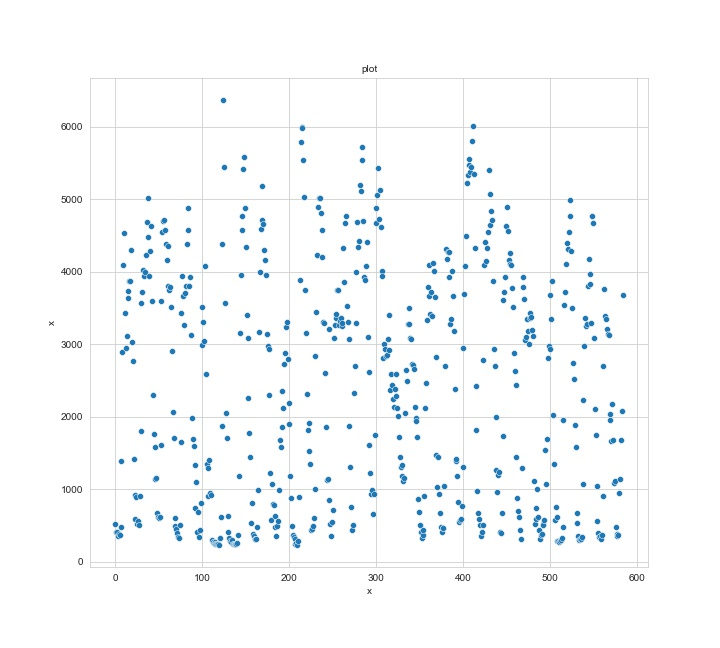
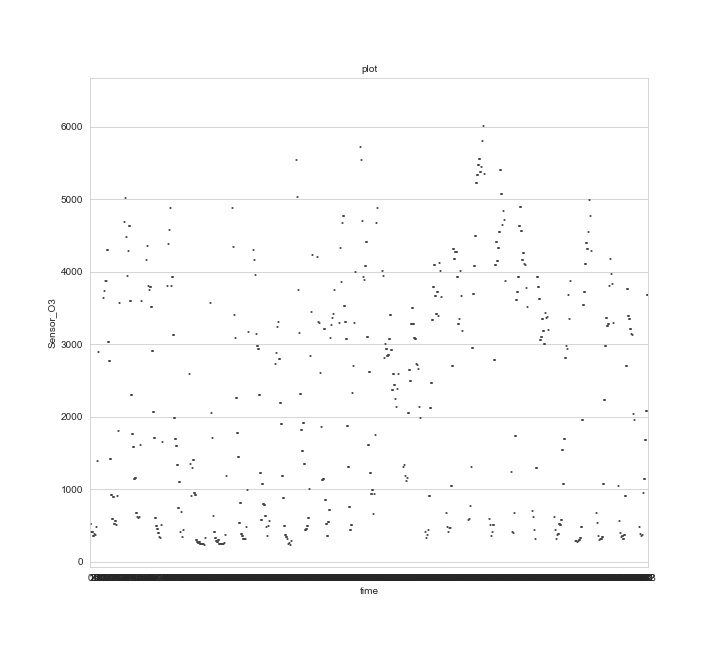
time added to the dataframe, trying some plots

diff --git a/Toml-part3/dplotter.py b/Toml-part3/dplotter.py
@@ -12,18 +12,16 @@ import shutil as sh
 import pandas as pd
 import seaborn as sb
 
-def plotTypes():
-    return [
-            "bar",
-            "count",
-            "scatter",
-            "pain",
-            "line",
-            "box",
-            "strip",
-            "violin",
-            "heat"
-        ]
+#useful plots:
+    #lineplot
+    #pairplot
+    #boxplot
+    #scatterplot
+    #barplot
+    #heatmap
+    #clustermap
+    
+    
 
 class Plotter:
     def __init__(self):
@@ -40,30 +38,14 @@ class Plotter:
     def title(self,t):
         self.ptitle=t
     
-    def show(self,plotType,data,x,y,delete=False,save=False,hue=None,dkind=None,vmin=-1,vmax=1):
+    def show(self,data,delete=False,save=False,hue=None,dkind=None,vmin=-1,vmax=1):
         fig=plt.figure(figsize=(10,9))
         plt.xlabel(self.xlabel,fontsize=self.size)
         plt.ylabel(self.xlabel,fontsize=self.size)
         plt.title(self.ptitle,fontsize=self.size)
-        if(plotType=="bar"):
-            p=sb.barplot(x=x,y=y)
-        elif(plotType=="count"):
-            p=sb.countplot(x)
-        elif(plotType=="scatter"):
-            p=sb.scatterplot(x=x,y=y)
-        elif(plotType=="pain"):
-            p=sb.pairplot(data,hue=hue,diag_kind=dkind)
-        elif(plotType=="line"):
-            p=sb.lineplot(x=x, y=y)
-        elif(plotType=="box"):
-            p=sb.boxplot(data=x)
-        elif(plotType=="strip"):
-            p=sb.stripplot(data=x)
-        elif(plotType=="violin"):
-            p=sb.violinplot(data=x)
-        elif(plotType=="heat"):
-            p=sb.heatmap(x,annot=True,cmap="RdBu",vmin=vmin,vmax=vmax)
-        plt.show()
+        
+        #plot here
+        
         if(os.path.exists("./plot") and delete and save):
             sh.rmtree("./plot")
         if(delete and save):
@@ -72,31 +54,60 @@ class Plotter:
         fig.savefig(self.ptitle+".jpg")
         
     
-        
-    def choosePlot(self,x=None,y=None,hue=None,dkind=None,vmin=-1,vmax=1):
-        p=None
-        plotType=self.plotType
-        if(plotType=="bar"):
-            p=sb.barplot(x=x,y=y)
-        elif(plotType=="count"):
-            p=sb.countplot(x=x,y=y)
-        elif(plotType=="scatter"):
-            p=sb.scatterplot(x=x,y=y)
-        elif(plotType=="pain"):
-            p=sb.pairplot(x,hue=hue,diag_kind=dkind)
-        elif(plotType=="line"):
-            p=sb.lineplot(x=x, y=y)
-        elif(plotType=="box"):
-            p=sb.boxplot(data=x)
-        elif(plotType=="strip"):
-            p=sb.stripplot(data=x)
-        elif(plotType=="violin"):
-            p=sb.violinplot(data=x)
-        elif(plotType=="heat"):
-            p=sb.heatmap(x,annot=True,cmap="RdBu",vmin=vmin,vmax=vmax)
-            #eventual labels
-        return p
+class LinePlotter(Plotter):
+    def __init__(self):
+        super().__init__()
     
+    def show(self,data,delete=False,save=False,hue=None,dkind=None,vmin=-1,vmax=1):
+        fig=plt.figure(figsize=(10,9))
+        plt.xlabel(self.xlabel,fontsize=self.size)
+        plt.ylabel(self.xlabel,fontsize=self.size)
+        plt.title(self.ptitle,fontsize=self.size)
         
+        sb.lineplot(data=data,x=self.xlabel,y=self.ylabel)
         
+        if(os.path.exists("./plot") and delete and save):
+            sh.rmtree("./plot")
+        if(delete and save):
+            os.mkdir("./plot")
+        plt.show()
+        fig.savefig(self.ptitle+".jpg")
+        
+class PairPlotter(Plotter):
+    def __init__(self):
+        super().__init__()
+    
+    def show(self,data,delete=False,save=False,hue=None,dkind=None,vmin=-1,vmax=1):
+        fig=plt.figure(figsize=(10,9))
+        plt.xlabel(self.xlabel,fontsize=self.size)
+        plt.ylabel(self.xlabel,fontsize=self.size)
+        plt.title(self.ptitle,fontsize=self.size)
+        
+        sb.pairplot(data=data)
+        
+        if(os.path.exists("./plot") and delete and save):
+            sh.rmtree("./plot")
+        if(delete and save):
+            os.mkdir("./plot")
+        plt.show()
+        fig.savefig(self.ptitle+".jpg")
+        
+class BoxPlotter(Plotter):
+    def __init__(self):
+        super().__init__()
+    
+    def show(self,data,delete=False,save=False,hue=None,dkind=None,vmin=-1,vmax=1):
+        fig=plt.figure(figsize=(10,9))
+        plt.xlabel(self.xlabel,fontsize=self.size)
+        plt.ylabel(self.xlabel,fontsize=self.size)
+        plt.title(self.ptitle,fontsize=self.size)
+        
+        sb.boxplot(x=self.xlabel,y=self.ylabel,data=data)
+        
+        if(os.path.exists("./plot") and delete and save):
+            sh.rmtree("./plot")
+        if(delete and save):
+            os.mkdir("./plot")
+        #plt.show()
+        fig.savefig(self.ptitle+".jpg")
         

diff --git a/Toml-part3/base.py b/Toml-part3/base.py
@@ -8,16 +8,15 @@ def readData(filename,separator):
     data=pd.read_csv(filename,delimiter=separator)
     data.isnull().values.any()
     data=data.dropna()
-    if("date" in data.keys()):
+    if("date" in data.keys()): #converting date string in datetime
         data["date"]=pd.to_datetime(data["date"]).dt.strftime('%Y-%m-%dT%H:%M')
-    if("Sensor_O3" in data.keys()):
+    if("Sensor_O3" in data.keys()): #converting O3 value in floats
         nums=[]
         for n in data["Sensor_O3"]:
             if n.count(".")>1:
                 n=n.replace(".","",1)
             nums+=[np.float64(n)]
         data["Sensor_O3"]=np.array(nums)
-                
     data.head()
     return data;
 
@@ -35,6 +34,8 @@ def prepareData(listFileNames,separator):
     for i in range(1,len(listdata)): #Merging
         data=mergeData(data,listdata[i],"inner","date","date")
         data.head()
+    time=np.arange(0,len(data.values),1)
+    data.insert(0, "time", time)
     return data
     
 

diff --git a/Toml-part3/plotdata.py b/Toml-part3/plotdata.py
@@ -8,6 +8,7 @@ Created on Sun May  8 10:29:36 2022
 from base import prepareData
 import dplotter as dp
 import numpy as np
+import pandas as pd
 
 def sensorData():
     listfiles=["captor17013-sensor1.csv",
@@ -18,15 +19,10 @@ def sensorData():
     return prepareData(listfiles, ";")
 
 data=sensorData()
+delete=True
+o3="Sensor_O3"
+p=dp.BoxPlotter()
+p.labels("time",o3)
+p.show(data,delete=delete,save=True)
 delete=False
-plotTypes=["scatter","line","bar"]
-for ptype in plotTypes:
-    p=dp.Plotter()
-    y=data["Sensor_O3"].values
-    x=np.arange(0,len(y),1)
-    p.labels("time","O3")
-    p.title("O3 - "+ptype)
-    for key in data.keys():
-        if(key!="date" and key!="Sensor_O3"):
-               data.plot.pie(startangle=90)
-            delete=False
+   
